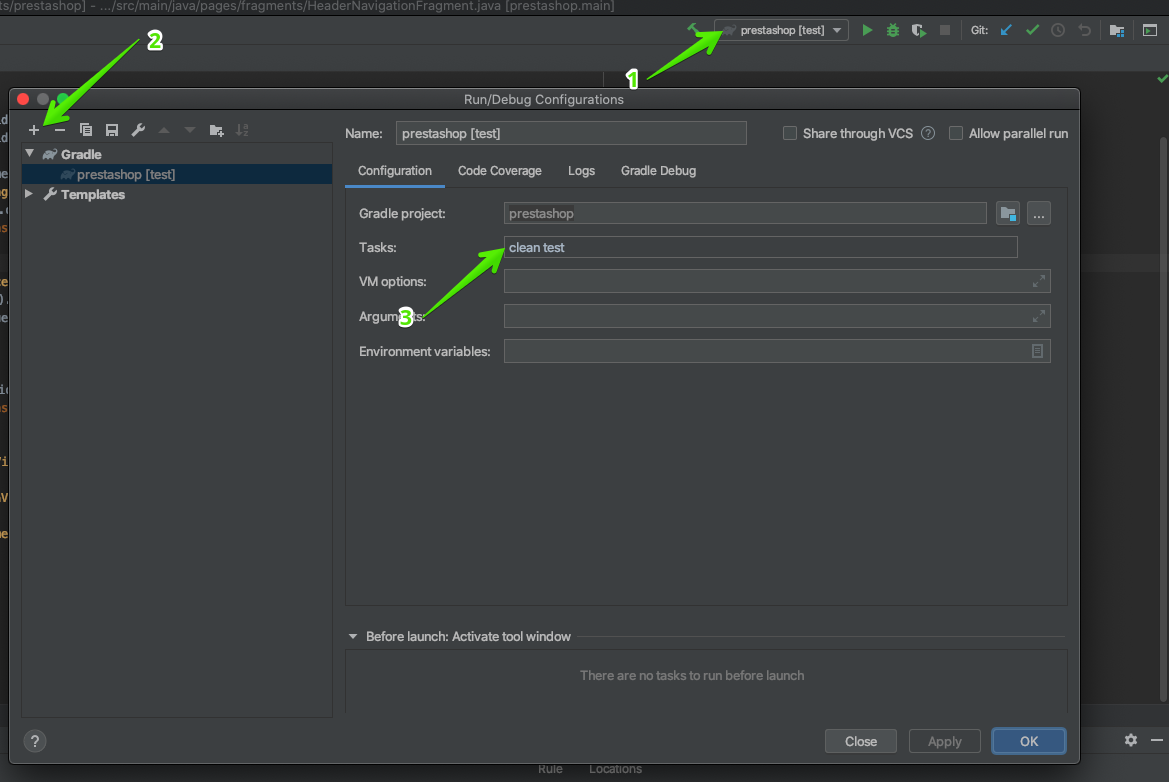
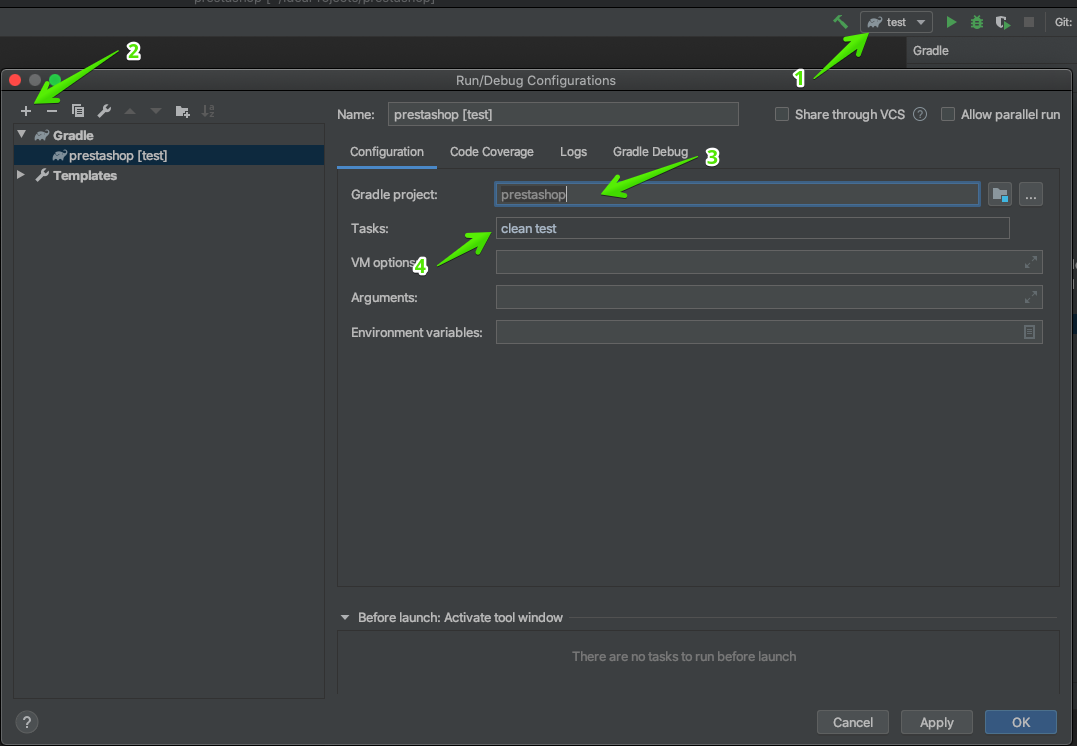
Updated README.md

Changed region(s): [[0.0, 0.0, 1.0, 1.0], [0.5209, 0.8633, 0.7354, 0.8941], [0.3064, 0.8016, 0.5209, 0.8324]]

diff --git a/src/test/java/tests/PrestaShopTest.java b/src/test/java/tests/PrestaShopTest.java
@@ -90,7 +90,6 @@ public class PrestaShopTest extends TestBase {
 
         // Check a price is correctly calculated
         int addedItemQuantity = cartPage.getItemAmount(0);
-        String itemName = cartPage.getItemName(0);
         BigDecimal firstAddedItemPrice = cartPage.getItemPrice(0);
         BigDecimal firstAddedItemTotalPrice = cartPage.getItemTotalPrice(0);
         BigDecimal firstItemExpectedTotalPrice = firstAddedItemPrice.multiply(BigDecimal.valueOf(addedItemQuantity));

diff --git a/README.md b/README.md
@@ -4,7 +4,8 @@ Technologies used: Java/Selenide
 ## How to start tests from InteliJ IDEA
 1. Open build configuration
 2. Choose Gradle
-3. Enter gradle tasks: `clean test`
+3. Choose prestashop project
+4. Enter gradle tasks: `clean test`
 ![Idea how to start tests steps](./readme_files/IdeaRunTests.png)
 ## How to start tests from command line
 1. Execute following command from command line: `gradle cleanTest test`
